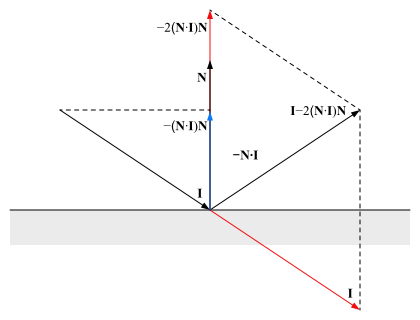
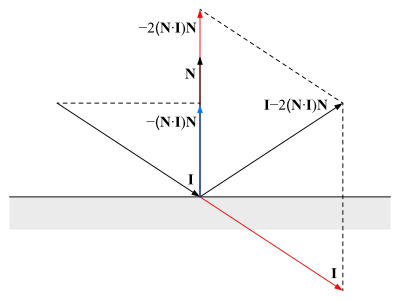
反射光ベクトルの画像をSVGからPNGに変更し、視線ベクトルの計算方法を明確化

diff --git a/_posts/2005-10-15-glsl.md b/_posts/2005-10-15-glsl.md
@@ -360,13 +360,18 @@ void main ()
 
 $$\mathrm{reflect}\left(\mathbf{I},\mathbf{N}\right)=\mathbf{I}-2\left(\mathbf{N}\cdot\mathbf{I}\right)\mathbf{N}$$
 
-![反射光ベクトル]({{ site.baseurl }}/assets/images/glsl/reflect.svg)
+![反射光ベクトル]({{ site.baseurl }}/assets/images/glsl/reflect.png)
 
-て、視線ベクトル `view` の正反射ベクトルを求めます。ここで `view` は正規化する必要はありません。
+入射ベクトルは視線ベクトルの逆ベクトル $\mathbf{I}=$ `-view` なので、ここではバーテックスシェーダで `view` を求めるときに符号を反転しておきます。
 
-そして GLSL の組み込み関数 `textureCube()` を使って、キューブマップのサンプラの unform 変数 `environment` を指定して、この正反射ベクトルでテクスチャをサンプリングし、得られた色を鏡面反射率 `specular` として使います。
+```glsl
+  // 視点座標系の視線ベクトル
+  view = normalize(position.xyz);
+```
 
-なお、中間ベクトル `halfway` は使わないので、この計算は削除してしまって構いません。
+フラグメントシェーダでは、この視線ベクトルの補間値 `view` と法線マップから得た法線ベクトル `normal` から、視線の正反射ベクトル `reflect(` `view`, `normal` `)` を求めます。これを `textureCube()` テクスチャ座標に使ってキューブマップ `environment` をサンプリングし、得られた色を鏡面反射率 `specular` として使います。
+
+なお、法線ベクトル $\mathbf{N}=$`normal` は正規化しますが、`view` は正規化する必要はありません。また、中間ベクトル `halfway` は使わないので、この計算は削除してしまって構いません。
 
 ```cpp
   // 視線の反射ベクトルでキューブマップをサンプリングして環境の色を得る
